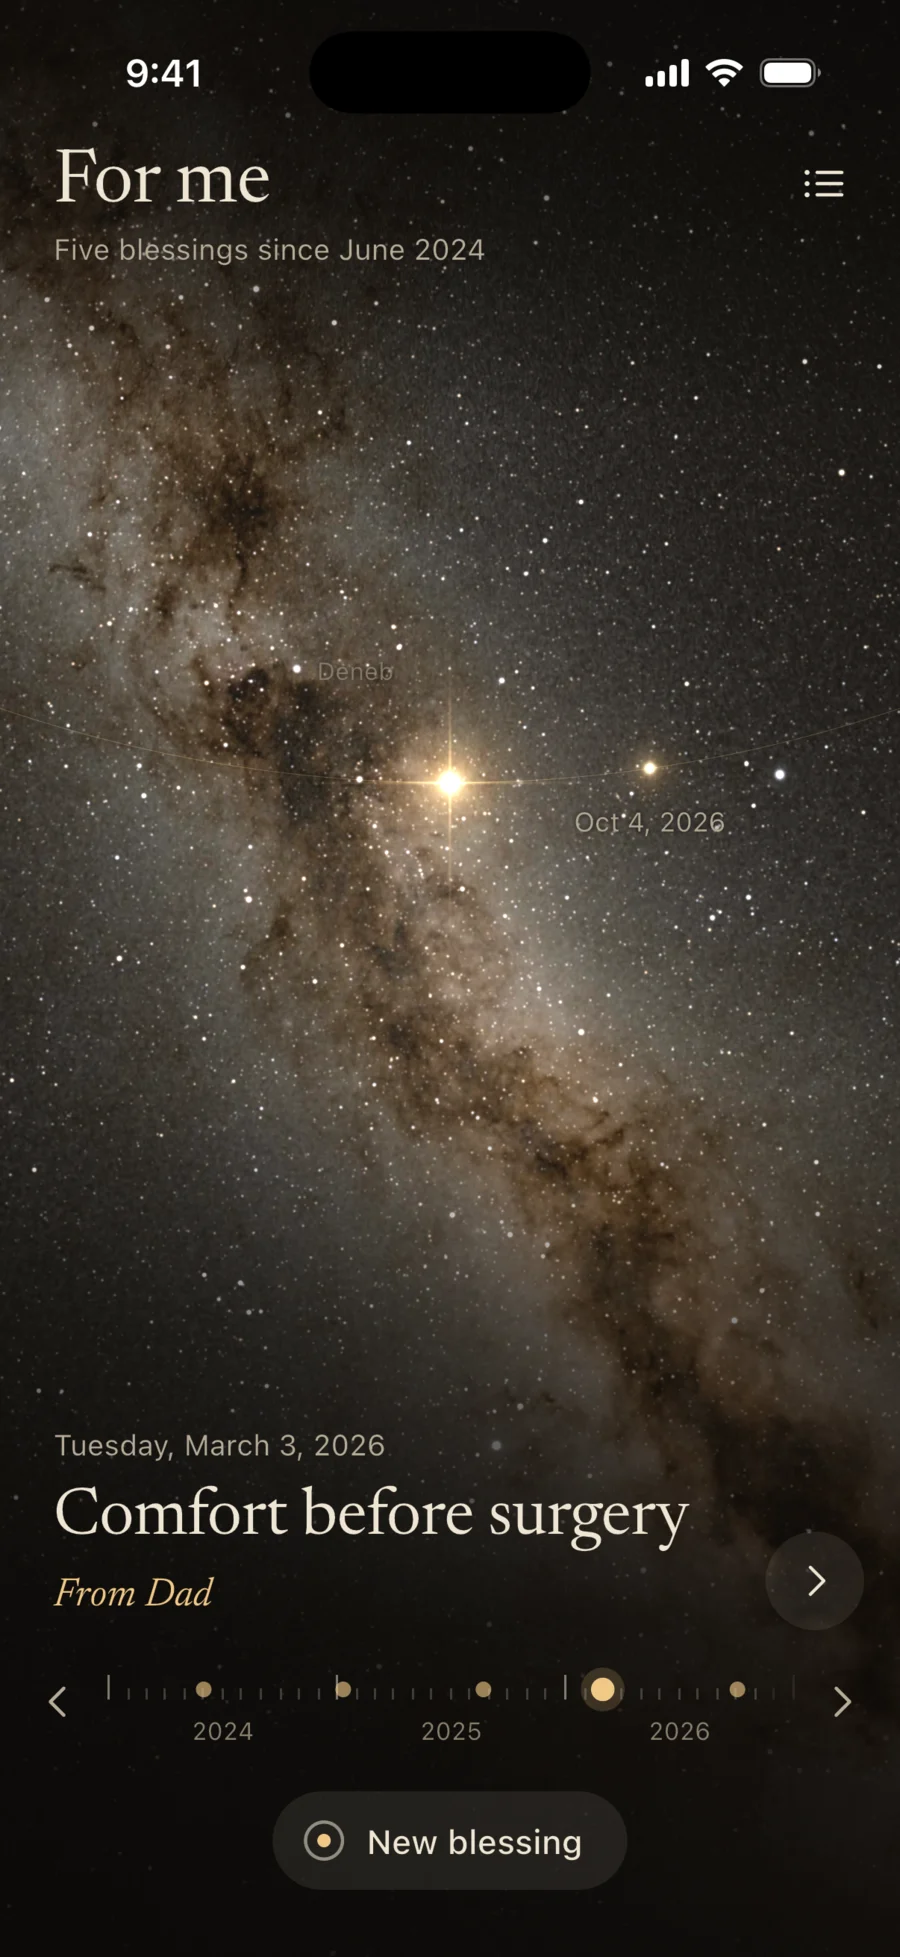
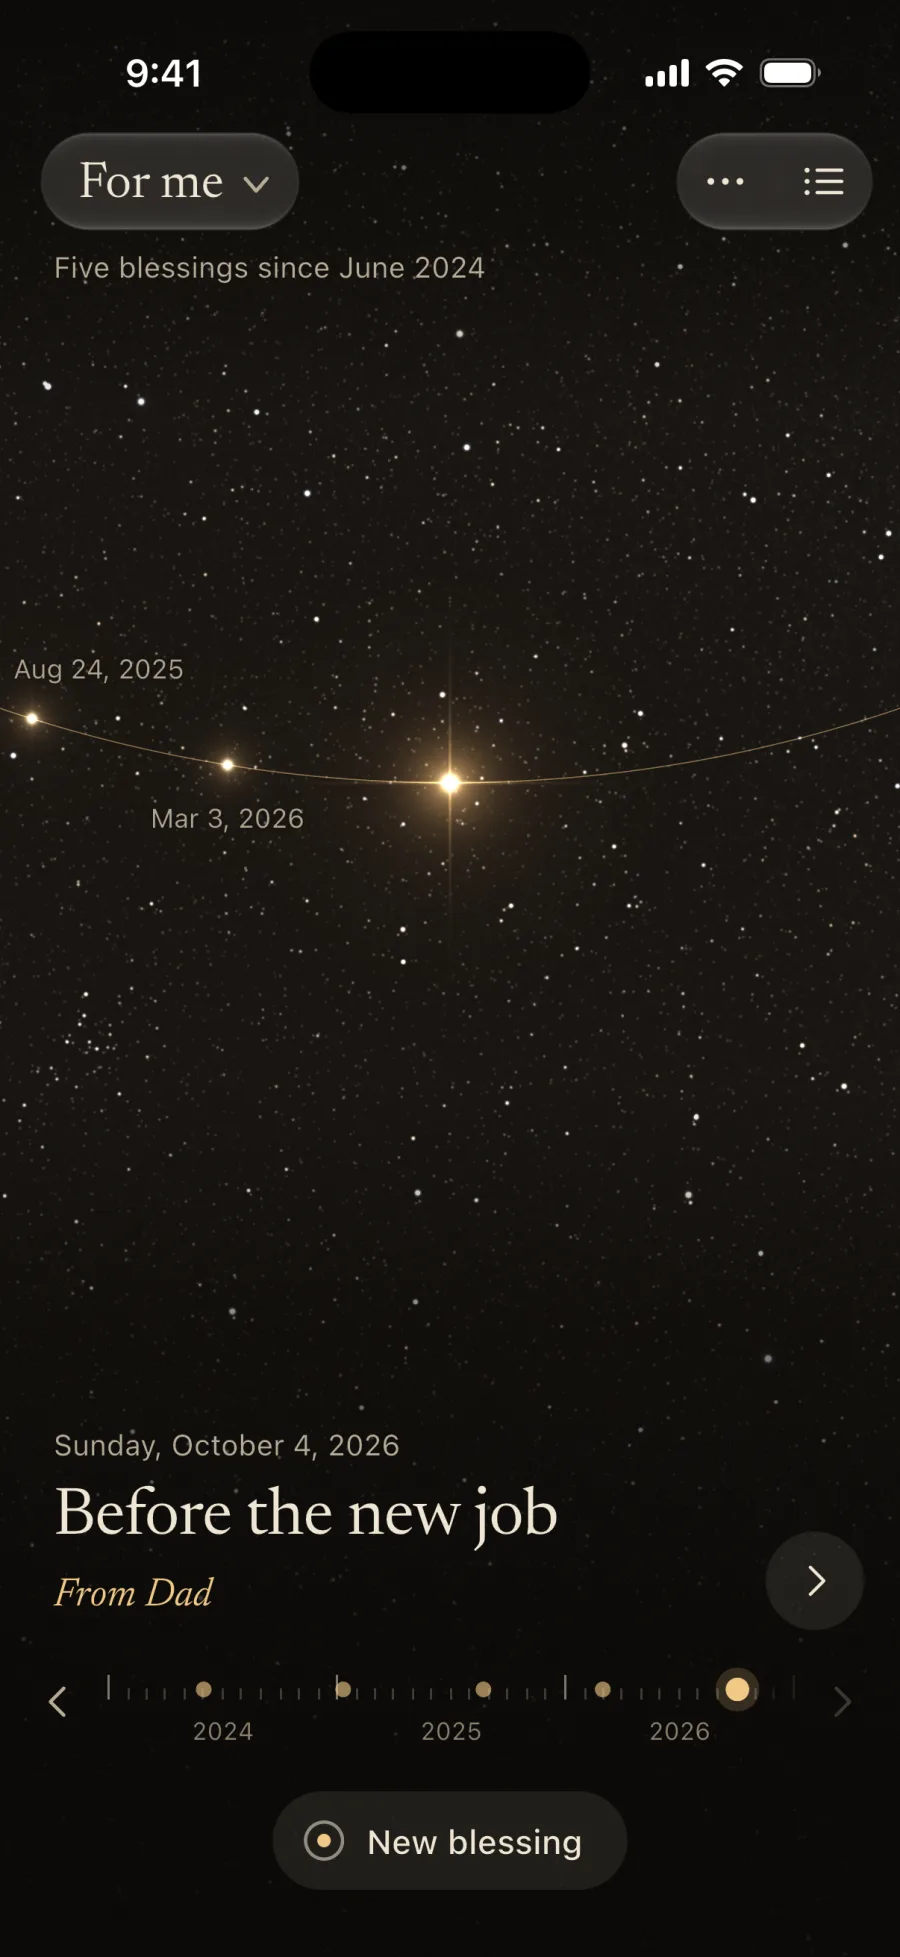
Marketing page: plain features in place of the imagery (Noah: sharper, and present)
The hero, the lines over the sky and the section headings now say what the app does. Two new
sections: keeping blessings for your children and handing them over, and entering a blessing you
already have. The privacy list has five points. The home picture is the current app.

Paragraphs are keyed by position: keyed by their own text, the longest one was dropped from the
built page.

diff --git a/website/app/content.ts b/website/app/content.ts
@@ -8,49 +8,56 @@ export const en = {
   meta: {
     title: "Upon Thy Head",
     description:
-      "A written record of the blessings given to you. The words stay on your phone. Free, and coming soon to iPhone and Android.",
+      "Record a priesthood blessing and keep its words, for yourself and for your children. Everything stays on your phone. Free, and coming soon to iPhone and Android.",
   },
   hero: {
     name: "Upon Thy Head",
-    sentence: "A written record of the blessings given to you, kept on your own phone.",
+    sentence: "Record a priesthood blessing and keep its words, for yourself and for your children. Everything stays on your phone.",
     note: "Free. No ads. No account.",
   },
   // The held scene under the name: the arc of lights draws away into a halo that turns.
   journey: {
-    one: "Each blessing is a light.",
-    two: "Touch one, and the blessing opens to read.",
+    one: "Keep every blessing you are given.",
+    two: "Keep your children’s until they are grown.",
   },
   sky: {
-    heading: "A life becomes a line of lights",
+    heading: "Every blessing, where you can find it",
     body: [
-      "The first thing you see is the night sky. Each blessing you have received is one small, warm light on a ring that crosses overhead.",
-      "The lights gather over the years, each one where it was given. Touch one, and the blessing opens to read.",
+      "Home is a night sky with one light for each blessing, in the order they were given. Touch a light and the blessing opens to read.",
+      "Looking for one from years ago? Slide along the dates at the bottom, or open the list.",
+    ],
+  },
+  family: {
+    heading: "For you, and for your children",
+    body: [
+      "Add each of your children and keep their blessings beside your own. A father’s blessing before a new school year goes on that child’s own sky, not yours.",
+      "When they are grown, hand it all over. One link, and every blessing you kept for them is on their own phone.",
     ],
   },
   steps: {
-    heading: "From the blessing to the page",
+    heading: "How it works",
     items: [
       {
         shot: "recording",
-        title: "A blessing is given",
-        body: "A father’s blessing, a blessing of comfort, a blessing before surgery. Someone sets a phone nearby, and it listens while the words are spoken.",
+        title: "Record the blessing",
+        body: "Set the phone nearby and press Begin. It listens while the blessing is given, and keeps listening with the screen locked.",
       },
       {
         shot: "changes",
-        title: "The words are written",
-        body: "The phone writes down what was said. It does the work itself; nothing is sent away to be written down.",
+        title: "The phone writes the words",
+        body: "The writing is done on the phone itself. Nothing is sent anywhere to be written down.",
       },
       {
         shot: "reading",
-        title: "They are kept",
-        body: "Read the words through once. Then the recording is erased and the writing stays, yours to open again whenever you need it.",
+        title: "Read it and keep it",
+        body: "Read the words through and correct anything misheard. Then the recording is erased and the writing stays.",
       },
     ],
   },
   // The demonstration. Plain strings are kept as spoken; { cut } marks a word the tidy-up leaves out.
   words: {
     heading: "Word for word",
-    body: "Nothing is summarised. Nothing is reworded. If you ask, the app leaves out an “um” or a word said twice. It shows you every change, and each one can be undone.",
+    body: "Nothing is summarised or reworded. If you ask, the app leaves out an “um” or a word said twice, shows you every change, and lets you undo each one.",
     sample: [
       "Emma, I lay my hands upon your head,",
       { cut: "um," },
@@ -64,24 +71,35 @@ export const en = {
     count: "Words left out:",
     hint: "Touch a crossed-out word to put it back.",
   },
+  past: {
+    heading: "Blessings you already have",
+    body: [
+      "Have a blessing typed up years ago, or written in a journal? Type it or paste it in, with the date it was given.",
+      "If you only remember the year, that is enough. It takes its place among the others.",
+    ],
+  },
   promises: {
-    heading: "What it promises",
+    heading: "Private, and yours",
     items: [
       {
-        title: "The words stay on your phone.",
-        body: "The recording is turned into writing on the phone itself, and there is no account. When you share a blessing, a locked copy is kept for 30 days so the person you sent it to can open it. We cannot read it.",
+        title: "Everything stays on your phone.",
+        body: "The recording is written down on the phone itself. There is no account, and no copy of your blessings on our servers.",
       },
       {
         title: "The recording is erased.",
-        body: "Once you have reviewed the words, the recording is erased. The writing stays.",
+        body: "Once you have read the words through, the recording is erased. The writing stays.",
       },
       {
         title: "Your blessings are locked.",
         body: "They open with Face ID, or with your fingerprint or screen lock.",
       },
       {
-        title: "It is free.",
-        body: "No ads. In English and Spanish.",
+        title: "Shared only when you choose.",
+        body: "If you send a blessing as a link, a locked copy is kept for 30 days so the other person can open it. The key is in the link itself, so we cannot read it.",
+      },
+      {
+        title: "Free.",
+        body: "No ads and no account. In English and Spanish, on iPhone, iPad and Android.",
       },
     ],
   },
@@ -219,7 +237,15 @@ export const en = {
   shots: {
     sky: {
       label: "The sky",
-      alt: "The app’s home screen: the night sky, with one warm light for each blessing on a ring overhead.",
+      alt: "The app’s home screen: a night sky with one light for each blessing, the newest named at the bottom above a row of dates.",
+    },
+    family: {
+      label: "Family",
+      alt: "The menu on the home screen: For me, For Emma, Add a family member, Manage family.",
+    },
+    entry: {
+      label: "A past blessing",
+      alt: "The page for entering a past blessing: the date it was given, who gave it, and its words pasted in.",
     },
     recording: {
       label: "Recording",

diff --git a/website/app/page.tsx b/website/app/page.tsx
@@ -113,13 +113,29 @@ export default function Page() {
               <h2 id="sky-heading">{c.sky.heading}</h2>
             </Reveal>
             {c.sky.body.map((p, i) => (
-              <Reveal key={p} order={i + 1}>
+              <Reveal key={i} order={i + 1}>
                 <p>{p}</p>
               </Reveal>
             ))}
           </div>
           <Reveal order={1} wrap className="shot-wrap lamp">
             <Shot name="sky" content={c} sizes="(min-width: 760px) 340px, 72vw" />
+          </Reveal>
+        </section>
+
+        <section className="wrap pair pair-flipped" aria-labelledby="family-heading">
+          <div className="pair-words">
+            <Reveal>
+              <h2 id="family-heading">{c.family.heading}</h2>
+            </Reveal>
+            {c.family.body.map((p, i) => (
+              <Reveal key={i} order={i + 1}>
+                <p>{p}</p>
+              </Reveal>
+            ))}
+          </div>
+          <Reveal order={1} wrap className="shot-wrap">
+            <Shot name="family" content={c} sizes="(min-width: 760px) 340px, 72vw" />
           </Reveal>
         </section>
 
@@ -175,6 +191,22 @@ export default function Page() {
                 {c.words.hint}
               </p>
             </>
+          </Reveal>
+        </section>
+
+        <section className="wrap pair" aria-labelledby="past-heading">
+          <div className="pair-words">
+            <Reveal>
+              <h2 id="past-heading">{c.past.heading}</h2>
+            </Reveal>
+            {c.past.body.map((p, i) => (
+              <Reveal key={i} order={i + 1}>
+                <p>{p}</p>
+              </Reveal>
+            ))}
+          </div>
+          <Reveal order={1} wrap className="shot-wrap">
+            <Shot name="entry" content={c} sizes="(min-width: 760px) 340px, 72vw" />
           </Reveal>
         </section>
 
